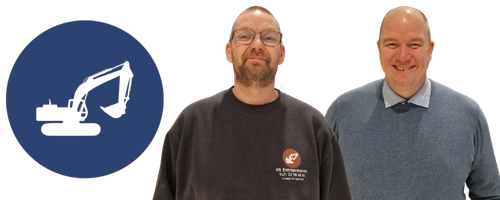
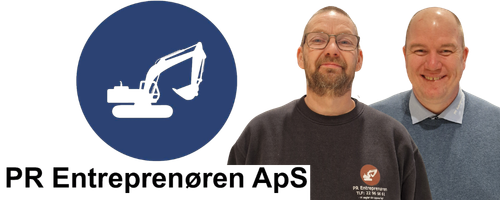
Opdater headerlogo + omfangsdræn side (billede, SEO-tekst, FAQ)

diff --git a/constants.tsx b/constants.tsx
@@ -32,16 +32,43 @@ export const SERVICES: Service[] = [
   {
     id: '1',
     slug: 'omfangsdraen',
-    image: '/pictures/Dræn/20210628_065610.jpg',
+    image: '/pictures/omfangsdræn/omfangs-forside.jpg',
     title: 'Omfangsdræn',
-    description: 'Permanent løsning mod fugt i kælder. Professionelt installeret drænsystem der beskytter dit fundament i årtier.',
-    longDescription: 'Fugt i kælderen er ikke bare ubehageligt – det truer hele byggeriets levetid. Vi installerer omfangsdræn efter DTU-anvisninger med kvalitetsmaterialer der holder i generationer. Fra udgravning og membran til drænrør og retablering håndterer vi hele processen, så du kan være sikker på et tørt resultat.',
+    description: 'Permanent løsning mod fugt i kælder og fundament. Autoriseret installation af drænsystem efter SBi-anvisning 224 – vi beskytter dit hus i generationer.',
+    longDescription: `Fugt i kælderen er ikke bare ubehageligt – det truer hele byggeriets levetid og kan over tid føre til skimmelsvamp, råd i bjælker og alvorlige strukturelle skader på fundamentet. Et omfangsdræn er den mest effektive og langsigtede løsning mod vandindtrængning, og det er en investering der typisk betaler sig mange gange igen.
+
+Hvad er et omfangsdræn?
+
+Et omfangsdræn er et drænsystem der graves ned langs husets fundament og leder overskydende grundvand og regnvand væk fra bygningen. Systemet består af et perforeret drænrør (typisk 100 mm PVC), omgivet af drænende singels eller grus, og en kapillarbrydende membran der beskytter fundamentet mod direkte vandkontakt. Vandet ledes via drænrøret til en brønd eller videre til kommunal kloak, grøft eller faskine.
+
+Hvornår har du brug for omfangsdræn?
+
+Mange fynske boliger fra 1950'erne, 60'erne og 70'erne er aldrig blevet forsynet med korrekt dræning – og det kan mærkes med årene. Tegn på at du bør overveje omfangsdræn: Fugtpletter eller hvidt kalkudslag (udblomstring) på kælderens indvendige vægge. Mosgroede eller fugtige sokkelsten. Synlige revner i fundamentet. Muglugt eller muskelduft i kælder eller krybekælder. Kondensproblemer på gulve og vægge i den kolde årstid. Vandpyller i haven nær huset der ikke forsvinder hurtigt efter regn. Uisolerede kælderrum der er kolde og fugtige hele året.
+
+Processen – hvad sker der trin for trin
+
+Vi starter altid med en gratis besigtigelse, hvor vi vurderer dit hus' drænbehov, jordbundsforhold og det eksisterende afledningssystem. Herefter modtager du et fast tilbud uden overraskelser. Selve installationen foregår i disse trin: Udgravning langs fundament med minigraver – skånsomt og præcist selv på trange grunde. Rensning og inspektion af fundamentets yderside. Montering af kapillarbrydende drænmembran direkte mod fundamentsvæggen. Udlægning af drænrør i sandbund med korrekt fald mod udløbet (minimum 5 ‰). Omfyldning med drænende singels eller grus. Retablering af belægninger, græs og beplantning.
+
+Kvalitetsmaterialer og faglig standard
+
+Vi installerer efter SBi-anvisning 224 (Fugt i bygninger) og de gældende faglige standarder for dræning ved fundament. Det betyder korrekt dimensionering af rørdiameter, sikring af minimumsfald på alle strækninger og valg af materialer der er godkendt til formålet. Vi bruger membran og drænrør fra anerkendte leverandører og sikrer korrekt tilslutning til afledningssystemet – uanset om det er regnvandskloak, grøft eller faskine.
+
+Omfangsdræn på Fyn – vores arbejdsområde
+
+Som lokal virksomhed med base i Broby arbejder vi primært på Fyn og i Trekantsområdet. Vi kender de lokale jordbundsforhold og de typiske udfordringer i fynske boliger. Vi har etableret omfangsdræn i Odense, Svendborg, Nyborg, Faaborg, Ringe, Assens, Middelfart, Kerteminde, Langeland og mange andre fynske kommuner – og vi rykker hurtigt ud når behovet er akut.
+
+Dokumentation, garanti og forsikring
+
+Som autoriseret kloakmestervirksomhed udsteder vi fuld dokumentation for arbejdet i overensstemmelse med gældende lovkrav. Vi giver 5 års garanti på vores arbejde og benytter DM&E Kloakmestergarantien, der giver dig ekstra tryghed som forbruger. Et korrekt udført omfangsdræn holder typisk 50+ år uden vedligeholdelse. Mange forsikringsselskaber stiller desuden krav om dokumenteret drænløsning ved fugtskadesager – vi udsteder den nødvendige dokumentation og vejleder dig om hvad der gælder for din situation.`,
     icon: 'Droplets',
     faqs: [
-      { question: 'Hvordan ved jeg om jeg har brug for omfangsdræn?', answer: 'Tegn på behov: Fugtige vægge i kælder, mosgr på sokkel, revner i fundament, musefår lugt, eller synlige vandskader. Vi kommer gerne ud til gratis besigtigelse og vurderer dit behov.' },
-      { question: 'Hvor længe holder et omfangsdræn?', answer: 'Et professionelt udført omfangsdræn med kvalitetsmaterialer holder 50+ år. Vi bruger kun anerkendte produkter og følger DTU-retningslinjer nøje.' },
-      { question: 'Skal jeg have tilladelse fra kommunen?', answer: 'Normalt ikke til omfangsdræn på egen grund. Vi håndterer dog alle nødvendige anmeldelser hvis projektet kræver det.' },
-      { question: 'Hvad koster et omfangsdræn for et parcelhus?', answer: 'Prisen afhænger af husets størrelse, jordbundsforhold og adgangsforhold. Vi tilbyder altid gratis besigtigelse og fast pris herefter.' }
+      { question: 'Hvad er forskellen på omfangsdræn og indvendigt dræn?', answer: 'Et omfangsdræn graves ned udvendigt langs fundamentet og leder vandet væk fra huset, inden det trænger ind. Det er den foretrukne og mest effektive løsning. Indvendigt dræn (f.eks. i kælderen) opsamler derimod vand der allerede er kommet ind – det løser ikke den underliggende årsag. Vi anbefaler altid udvendigt omfangsdræn som første valg.' },
+      { question: 'Hvordan ved jeg om jeg har brug for omfangsdræn?', answer: 'De tydeligste tegn er fugtpletter eller kalkudslag på kælderens vægge, muglugt i kælder eller krybekælder, mosgroede sokkelsten, revner i fundamentet, eller vandpyller ved huset efter regn. Vi kommer gerne ud til gratis besigtigelse og giver en faglig vurdering af dit behov.' },
+      { question: 'Hvor meget af huset skal have omfangsdræn?', answer: 'Det afhænger af problemets omfang og terrænets hældning. Ofte er det nok at dræne på de sider af huset der vender mod terrænet eller er mest udsat for vand. I andre tilfælde anbefaler vi at dræne alle fire sider. Vi vurderer det konkret ved besigtigelse og anbefaler kun det der er nødvendigt.' },
+      { question: 'Skal jeg have tilladelse fra kommunen?', answer: 'Normalt kræves ingen tilladelse til omfangsdræn på egen grund. Hvis drænvandet ledes til kommunal kloak eller ud over skel, kan der kræves en tilladelse. Vi undersøger reglerne for din adresse og håndterer alle nødvendige anmeldelser.' },
+      { question: 'Hvor lang tid tager installationen?', answer: 'Et typisk omfangsdræn på et parcelhus tager 2-4 dage inkl. retablering. Større projekter eller komplekse jordbundsforhold kan tage længere tid. Vi oplyser altid den forventede tid i tilbuddet.' },
+      { question: 'Hvor længe holder et omfangsdræn?', answer: 'Et professionelt udført omfangsdræn med kvalitetsmaterialer holder 50+ år. Den eneste vedligeholdelse der kan være relevant, er jævnlig rensning af inspektionsbrønden for at sikre frit gennemløb. Vi rådgiver om dette ved aflevering af arbejdet.' },
+      { question: 'Hvad koster et omfangsdræn?', answer: 'Prisen afhænger af husets størrelse, jordbundsforhold, adgangsforhold og hvor stor en del af huset der skal drænes. Vi tilbyder altid gratis besigtigelse og et fast tilbud herefter – ingen timeafregning og ingen skjulte omkostninger.' }
     ]
   },
   {

diff --git a/pages/ServiceDetail.tsx b/pages/ServiceDetail.tsx
@@ -7,8 +7,8 @@ import CallButton from '../components/CallButton';
 // Map service slugs to their picture folder names
 const SERVICE_IMAGES: Record<string, { folder: string; images: string[] }> = {
   'omfangsdraen': {
-    folder: 'Dræn',
-    images: ['20210628_065610.jpg', '20210628_065624.jpg', '20210628_100202.jpg', '20210629_124507.jpg']
+    folder: 'omfangsdræn',
+    images: ['omfangs-forside.jpg', '20210628_065610.jpg', '20210628_065624.jpg', '20210628_100202.jpg', '20210629_124507.jpg']
   },
   'kloakarbejde': {
     folder: 'Separering',
@@ -27,7 +27,7 @@ const SERVICE_IMAGES: Record<string, { folder: string; images: string[] }> = {
     images: ['20210904_112241.jpg', '20210904_132016.jpg', '20211126_151126.jpg']
   },
   'lar-anlaeg': {
-    folder: 'Dræn',
+    folder: 'omfangsdræn',
     images: ['20210628_100206.jpg', '20210629_124507.jpg', '20210628_100202.jpg']
   },
   'entreprenoer-arbejde': {
